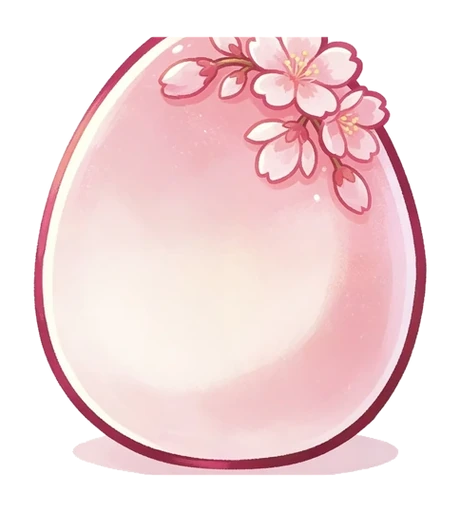
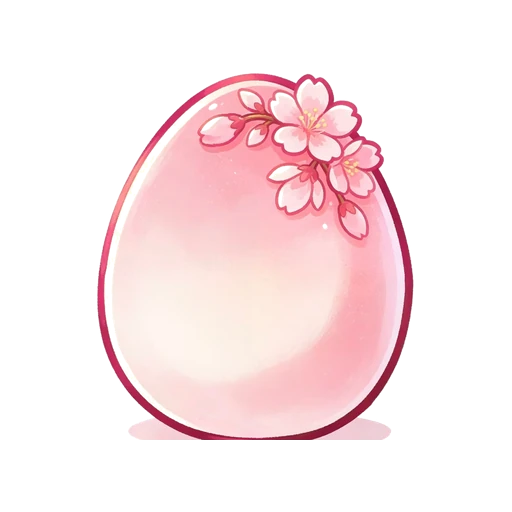
更新编辑台诊断 2026-11-06T04:16:14.131Z

diff --git a/eggs.css b/eggs.css
@@ -121,8 +121,10 @@ body {
   .egg { width: auto !important; padding: 6px !important; border-radius: 12px !important; }
   .egg img {
     width: 100% !important; height: auto !important;
-    aspect-ratio: 1 / 1; object-fit: contain;
-    max-height: 120px !important; display: block; margin: 0 auto;
+    object-fit: contain !important;
+    object-position: center !important;
+    max-height: none !important;
+    display: block; margin: 0 auto;
   }
   .egg p, .egg strong, .egg span { font-size: 10.5px !important; line-height: 1.4 !important; }
   .egg-link { font-size: 10.5px !important; padding: 2px 6px !important; }
@@ -178,4 +180,27 @@ body {
     display: block;
   }
   .fam { padding: 10px !important; }
+}
+
+
+/* mobile v3：蛋图完整显示 */
+@media (max-width: 640px) {
+  .fam .eggs .egg {
+    height: auto !important;
+    max-height: none !important;
+    display: flex !important;
+    flex-direction: column;
+    align-items: center;
+    justify-content: flex-start;
+  }
+  .fam .eggs .egg img {
+    width: 100% !important;
+    height: auto !important;
+    max-height: 140px !important;
+    object-fit: contain !important;
+    object-position: center !important;
+    flex: 0 0 auto;
+  }
+  /* 顶部切换条不遮住内容 */
+  .egg-form-bar { position: static !important; }
 }

diff --git a/404.html b/404.html
@@ -11,10 +11,10 @@
     <title>咻噗-奥灵宠图鉴</title>
     <script type="module" crossorigin src="/assets/index-C8GPqduH.js"></script>
     <link rel="stylesheet" crossorigin href="/assets/index-C7tQ-E0c.css">
-    <link rel="stylesheet" href="/custom.css?v=mw4g6ovo" />
-    <link rel="stylesheet" href="/skin2.css?v=mw4g6ovo" />
-    <link rel="stylesheet" href="/ui.css?v=mw4g6ovo" />
-    <link rel="stylesheet" href="/train.css?v=mw4g6ovo" />
+    <link rel="stylesheet" href="/custom.css?v=mw4gokpf" />
+    <link rel="stylesheet" href="/skin2.css?v=mw4gokpf" />
+    <link rel="stylesheet" href="/ui.css?v=mw4gokpf" />
+    <link rel="stylesheet" href="/train.css?v=mw4gokpf" />
     <link rel="manifest" href="/manifest.webmanifest" />
     <meta name="mobile-web-app-capable" content="yes" />
     <meta name="apple-mobile-web-app-capable" content="yes" />

diff --git a/index.html b/index.html
@@ -11,10 +11,10 @@
     <title>咻噗-奥灵宠图鉴</title>
     <script type="module" crossorigin src="/assets/index-C8GPqduH.js"></script>
     <link rel="stylesheet" crossorigin href="/assets/index-C7tQ-E0c.css">
-    <link rel="stylesheet" href="/custom.css?v=mw4g6ovo" />
-    <link rel="stylesheet" href="/skin2.css?v=mw4g6ovo" />
-    <link rel="stylesheet" href="/ui.css?v=mw4g6ovo" />
-    <link rel="stylesheet" href="/train.css?v=mw4g6ovo" />
+    <link rel="stylesheet" href="/custom.css?v=mw4gokpf" />
+    <link rel="stylesheet" href="/skin2.css?v=mw4gokpf" />
+    <link rel="stylesheet" href="/ui.css?v=mw4gokpf" />
+    <link rel="stylesheet" href="/train.css?v=mw4gokpf" />
     <link rel="manifest" href="/manifest.webmanifest" />
     <meta name="mobile-web-app-capable" content="yes" />
     <meta name="apple-mobile-web-app-capable" content="yes" />

diff --git a/install.html b/install.html
@@ -4,7 +4,7 @@
 <meta charset="utf-8" />
 <meta name="viewport" content="width=device-width, initial-scale=1, viewport-fit=cover" />
 <title>安装 App · 奥灵宠图鉴</title>
-<link rel="stylesheet" href="/train.css?v=mw4g6ovo" />
+<link rel="stylesheet" href="/train.css?v=mw4gokpf" />
 <style>
   body { margin: 0; background: #fdf6e3; color: #2a2520; font-family: system-ui, -apple-system, "PingFang SC", "Microsoft YaHei", sans-serif; }
   .wrap { max-width: 620px; margin: 0 auto; padding: 28px 20px 60px; }

diff --git a/sw.js b/sw.js
@@ -1,5 +1,5 @@
 /* 离线缓存：首次打开后，断网也能完整浏览 */
-const VERSION = 'vmw4g6ovm';
+const VERSION = 'vmw4gokpd';
 const SHELL = 'dex-shell-' + VERSION;
 const IMG = 'dex-img-' + VERSION;
 
